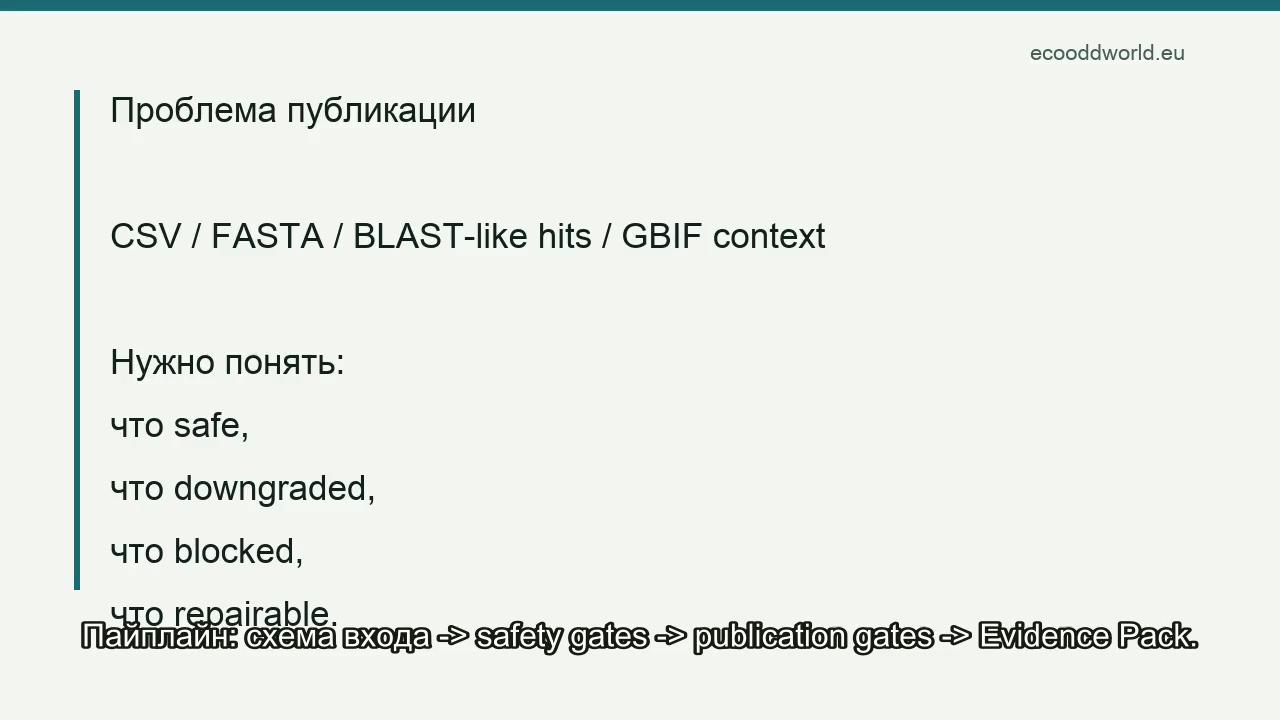
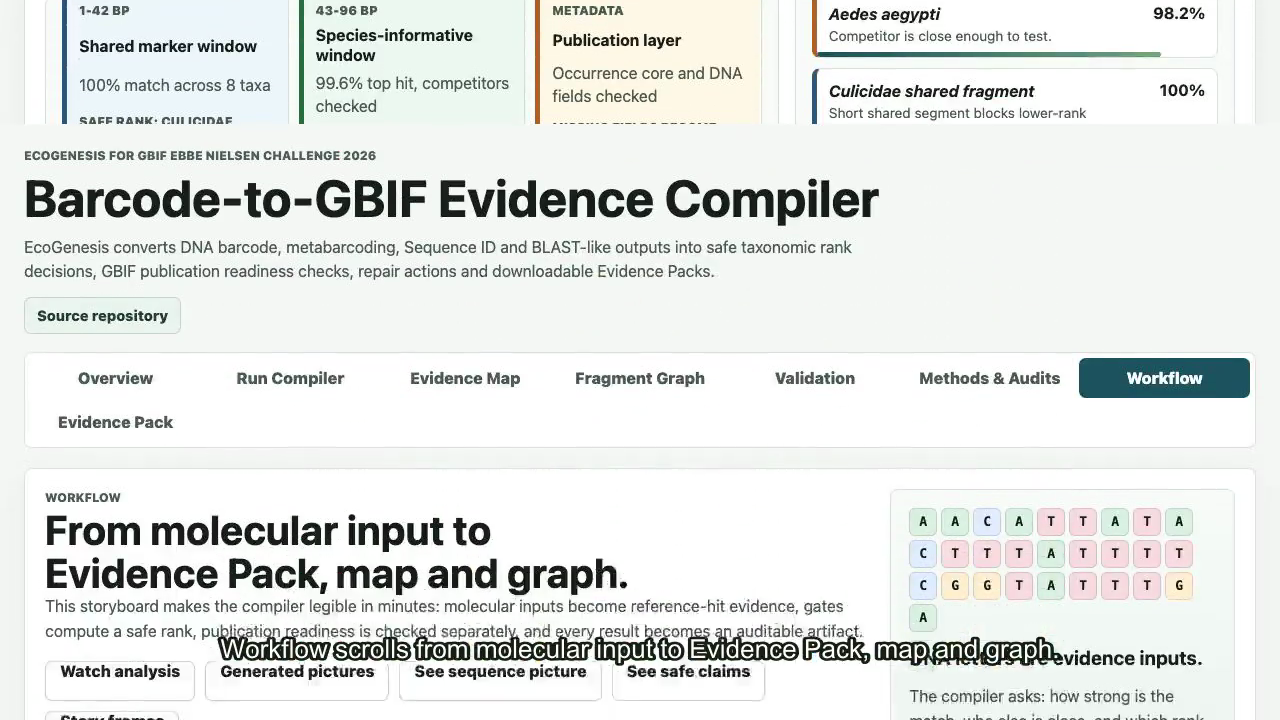
Add workflow-first demo video and repo links

diff --git a/frontend/src/styles.css b/frontend/src/styles.css
@@ -71,6 +71,25 @@ a {
   max-width: 860px;
 }
 
+.topbar-links {
+  display: flex;
+  flex-wrap: wrap;
+  gap: 10px;
+  margin-top: 14px;
+}
+
+.topbar-links a {
+  background: #eef5f0;
+  border: 1px solid #c8d9cf;
+  border-radius: 7px;
+  color: #1f4936;
+  font-size: 0.9rem;
+  font-weight: 850;
+  line-height: 1.2;
+  padding: 9px 12px;
+  text-decoration: none;
+}
+
 .eyebrow,
 .section-label {
   color: #566a60;

diff --git a/frontend/src/App.jsx b/frontend/src/App.jsx
@@ -73,6 +73,8 @@ const modeLabels = {
   evidencePack: 'Evidence Pack',
 };
 
+const projectRepositoryUrl = 'https://github.com/Ecooddworld/EcoGenesis_Evidence_Atlas';
+
 const lectureAnchorIds = new Set([
   'analysis-animation',
   'analysis-picture-sequence',
@@ -205,6 +207,7 @@ const barcodeSourceCards = [
 ];
 
 const officialSourceLinks = [
+  ['Source repository', projectRepositoryUrl],
   ['GBIF Sequence ID', 'https://www.gbif.org/tools/sequence-id'],
   ['GBIF DNA-derived publishing guide', 'https://docs.gbif.org/publishing-dna-derived-data/en/'],
   ['NCBI nucleotide BLAST', 'https://blast.ncbi.nlm.nih.gov/Blast.cgi?PAGE_TYPE=BlastSearch&PROGRAM=blastn'],
@@ -2128,6 +2131,9 @@ function App() {
           <p className="topbar-subtitle">
             EcoGenesis converts DNA barcode, metabarcoding, Sequence ID and BLAST-like outputs into safe taxonomic rank decisions, GBIF publication readiness checks, repair actions and downloadable Evidence Packs.
           </p>
+          <div className="topbar-links" aria-label="Project links">
+            <a href={projectRepositoryUrl} target="_blank" rel="noreferrer">Source repository</a>
+          </div>
         </div>
         <nav className="mode-switch" aria-label="View mode">
           {Object.entries(modeLabels).map(([id, label]) => (
@@ -3704,6 +3710,7 @@ function SubmissionOverview({ referenceStatus, metrics, exports, pack, onOpenWor
           <div className="hero-actions">
             <button className="primary" onClick={onOpenWorkbench}>Run demo</button>
             <button onClick={onRunCompiler} disabled={loading}>{loading ? 'Running...' : 'Run mixed demo'}</button>
+            <a className="button-link" href={projectRepositoryUrl} target="_blank" rel="noreferrer">Source repository</a>
             {evidencePack && (
               <a className="button-link" href={exportUrl(evidencePack.url)}>Download Evidence Pack</a>
             )}

diff --git a/submission-assets/platform-video/watch-local.html b/submission-assets/platform-video/watch-local.html
@@ -3,7 +3,7 @@
   <head>
     <meta charset="utf-8" />
     <meta name="viewport" content="width=device-width, initial-scale=1" />
-    <title>EcoGenesis platform demo video</title>
+    <title>EcoGenesis workflow-first demo video</title>
     <style>
       :root {
         color-scheme: light;
@@ -47,8 +47,8 @@
   </head>
   <body>
     <main>
-      <h1>EcoGenesis platform demo</h1>
-      <p>Русская озвучка, вшитые субтитры, отдельный SRT и transcript.</p>
+      <h1>EcoGenesis workflow-first demo</h1>
+      <p>Видео начинается с Workflow, затем проходит Overview, Run Compiler, Evidence Map, Fragment Graph, Validation, Methods & Audits и Evidence Pack. Русская озвучка, вшитые субтитры, отдельный SRT и transcript.</p>
       <video controls preload="metadata" src="video/ecogenesis-platform-demo-ru-voice-subs.mp4"></video>
       <nav>
         <a href="video/ecogenesis-platform-demo-ru-voice-subs.mp4">MP4</a>

diff --git a/frontend/src/App.test.jsx b/frontend/src/App.test.jsx
@@ -711,6 +711,10 @@ describe('Barcode compiler UI', () => {
     expect(screen.getByText('Repair optimizer')).toBeInTheDocument();
     expect(screen.getByText('Validation')).toBeInTheDocument();
     expect(screen.getByText('Evidence Pack')).toBeInTheDocument();
+    expect(screen.getAllByRole('link', { name: 'Source repository' })[0]).toHaveAttribute(
+      'href',
+      'https://github.com/Ecooddworld/EcoGenesis_Evidence_Atlas',
+    );
 
     fireEvent.click(screen.getByText('Run mixed demo'));
 

diff --git a/submission-assets/platform-video/README.md b/submission-assets/platform-video/README.md
@@ -1,6 +1,12 @@
-# EcoGenesis platform demo video
+# EcoGenesis workflow-first platform demo video
 
-Russian contest/demo walkthrough with voiceover and burned subtitles.
+Russian contest/demo walkthrough with voiceover, burned subtitles and full-page scrolling captures.
+
+The walkthrough starts from the `Workflow` screen, then moves through `Overview`,
+`Run Compiler`, `Evidence Map`, `Fragment Graph`, `Validation`,
+`Methods & Audits` and `Evidence Pack`.
+
+The source captures live in `screenshots-scroll/` so the video shows more than the top of each page.
 
 Build:
 
@@ -10,6 +16,7 @@ submission-assets/platform-video/build_platform_video_ru.sh
 
 Outputs:
 
+- `watch-local.html`
 - `video/ecogenesis-platform-demo-ru-voice-subs.mp4`
 - `video/ecogenesis-platform-demo-ru-voice-subs.srt`
 - `video/ecogenesis-platform-demo-ru-voiceover.txt`

diff --git a/submission-assets/final-submission-checklist.md b/submission-assets/final-submission-checklist.md
@@ -32,7 +32,7 @@ Entry form: https://www.survey-xact.dk/LinkCollector?key=YCAEZQR4SPC1
 
 ## Must Do Before Pressing Submit
 
-- [ ] Confirm the repository visibility follows the final contest rule; if it stays private, add judge access or an approved private review link.
+- [x] Source repository is public for judge review: https://github.com/Ecooddworld/EcoGenesis_Evidence_Atlas.
 - [ ] Enter final team member names, affiliations, country and contact email in the official GBIF form or approved private submission document.
 - [x] Record or rebuild the final video around the current CSV Upload -> Score workflow.
 - [ ] Upload the video to a public no-cost URL that plays without login.
@@ -80,8 +80,8 @@ npm run build
 - Team members: enter in the official form or approved private submission document.
 - Abstract and rationale: ready.
 - Operating instructions: ready.
-- Video link: paste into the official form after public upload. Local file is ready at `submission-assets/barcode-video/video/ecogenesis-barcode-to-gbif-english-voice-ru-subs.mp4`.
-- Source/documentation links: ready; keep private only if the contest review path accepts judge access or an approved private source link.
+- Video link: paste into the official form after public upload. Local file is ready at `submission-assets/platform-video/video/ecogenesis-platform-demo-ru-voice-subs.mp4`.
+- Source/documentation links: ready; public repository is `https://github.com/Ecooddworld/EcoGenesis_Evidence_Atlas`.
 
 ## Risk Notes
 

diff --git a/submission-assets/README.md b/submission-assets/README.md
@@ -27,11 +27,11 @@ This folder contains the materials prepared for the 2026 GBIF Ebbe Nielsen Chall
 - Contest page: https://www.gbif.org/news/3DyM3tK5wgYipqyaHwG2c2/2026-ebbe-nielsen-challenge-open-for-submissions
 - Official rules: https://www.gbif.org/awards/ebbe-2026-rules
 - Entry form: https://www.survey-xact.dk/LinkCollector?key=YCAEZQR4SPC1
-- Source repository: provide the public repository URL in the official form if requested.
+- Source repository: https://github.com/Ecooddworld/EcoGenesis_Evidence_Atlas
 
 ## Before Submission
 
-1. Confirm the repository visibility or judge access path follows the final contest rule.
+1. Confirm the public repository URL remains reachable for judges.
 2. Enter team/member details in the official GBIF form or approved private submission document.
 3. Upload `barcode-video/video/ecogenesis-barcode-to-gbif-english-voice-ru-subs.mp4` to a public no-login URL.
 4. Paste the public video URL into the official GBIF form.

diff --git a/submission-assets/gbif-2026-final-submission-pack.md b/submission-assets/gbif-2026-final-submission-pack.md
@@ -25,7 +25,7 @@ Current architecture: **EcoGenesis Nexus V3 + GSEG/GSIG proof layer + GSIG Obser
 - Hosted demo: https://ecooddworld.eu
 - Video URL: paste the public no-login video URL into the official form after upload.
 - Local final video for upload: `submission-assets/barcode-video/video/ecogenesis-barcode-to-gbif-english-voice-ru-subs.mp4`.
-- Source/docs: provide the public source repository URL in the official form if requested; the canonical docs are `README.md`, `docs/submission.md`, `docs/barcode-compiler-methodology.md`, `docs/production-caddy-deployment.md`, `docs/nexus-v3/EcoGenesis_Nexus_V3_FULL_PROJECT_RU.md` and `docs/testing.md`.
+- Source/docs: https://github.com/Ecooddworld/EcoGenesis_Evidence_Atlas; the canonical docs are `README.md`, `docs/submission.md`, `docs/barcode-compiler-methodology.md`, `docs/production-caddy-deployment.md`, `docs/nexus-v3/EcoGenesis_Nexus_V3_FULL_PROJECT_RU.md` and `docs/testing.md`.
 
 ## Current Working Demo
 
@@ -99,7 +99,7 @@ Before final submission, re-run the commands in `submission-assets/final-submiss
 
 ## Remaining Manual Items
 
-- Confirm the source repository visibility follows the final contest review path.
+- Confirm the public source repository URL remains reachable for the final contest review path.
 - Enter team/member details in the official form or approved private submission document.
 - Upload the final CSV Upload -> Score demo video from `submission-assets/barcode-video/video/ecogenesis-barcode-to-gbif-english-voice-ru-subs.mp4`.
 - Paste the public video URL into the official GBIF form after upload.

diff --git a/submission-assets/gbif-entry-form-draft.md b/submission-assets/gbif-entry-form-draft.md
@@ -126,7 +126,7 @@ Russian subtitles and English transcript are included in the same folder.
 ## Source and Submission Documentation Links
 
 - Hosted demo: https://ecooddworld.eu
-- Source repository URL: paste into the official form if requested.
+- Source repository URL: https://github.com/Ecooddworld/EcoGenesis_Evidence_Atlas
 - Main README: `README.md`
 - Submission documentation: `docs/submission.md`
 - Methodology: `docs/barcode-compiler-methodology.md`
@@ -139,7 +139,7 @@ Russian subtitles and English transcript are included in the same folder.
 
 ## Notes Before Final Form Submission
 
-- Confirm the source repository visibility follows the final contest review path.
+- Confirm the public source repository URL remains reachable for the final contest review path.
 - Confirm all public URLs work without login.
 - Enter team details only in the official form or an approved private submission document.
 - Paste the public video URL into the official form after upload.

diff --git a/submission-assets/barcode-entry-form-draft.md b/submission-assets/barcode-entry-form-draft.md
@@ -38,7 +38,7 @@ Open the hosted demo or local http://localhost:13100, go to `Run compiler`, uplo
 
 - Hosted demo: https://ecooddworld.eu
 - Public video URL: paste into the official form after upload
-- Source repository URL: paste into the official form if requested
+- Source repository URL: https://github.com/Ecooddworld/EcoGenesis_Evidence_Atlas
 - `docs/submission.md`
 - `docs/barcode-compiler-methodology.md`
 - `docs/nexus-v3/EcoGenesis_Nexus_V3_FULL_PROJECT_RU.md`

diff --git a/submission-assets/judge-walkthrough.md b/submission-assets/judge-walkthrough.md
@@ -5,7 +5,7 @@ Use this file as the compact demo script for judges, release notes, or the publi
 ## Links
 
 - Hosted demo: https://ecooddworld.eu
-- Source repository: provide the public repository URL in the official form if requested.
+- Source repository: https://github.com/Ecooddworld/EcoGenesis_Evidence_Atlas
 - Final local video: `submission-assets/barcode-video/video/ecogenesis-barcode-to-gbif-english-voice-ru-subs.mp4`
 - Captions: `submission-assets/barcode-video/video/ecogenesis-barcode-to-gbif-english-voice-ru-subs.srt`
 - Transcript: `submission-assets/barcode-video/video/ecogenesis-barcode-to-gbif-english-voiceover.txt`